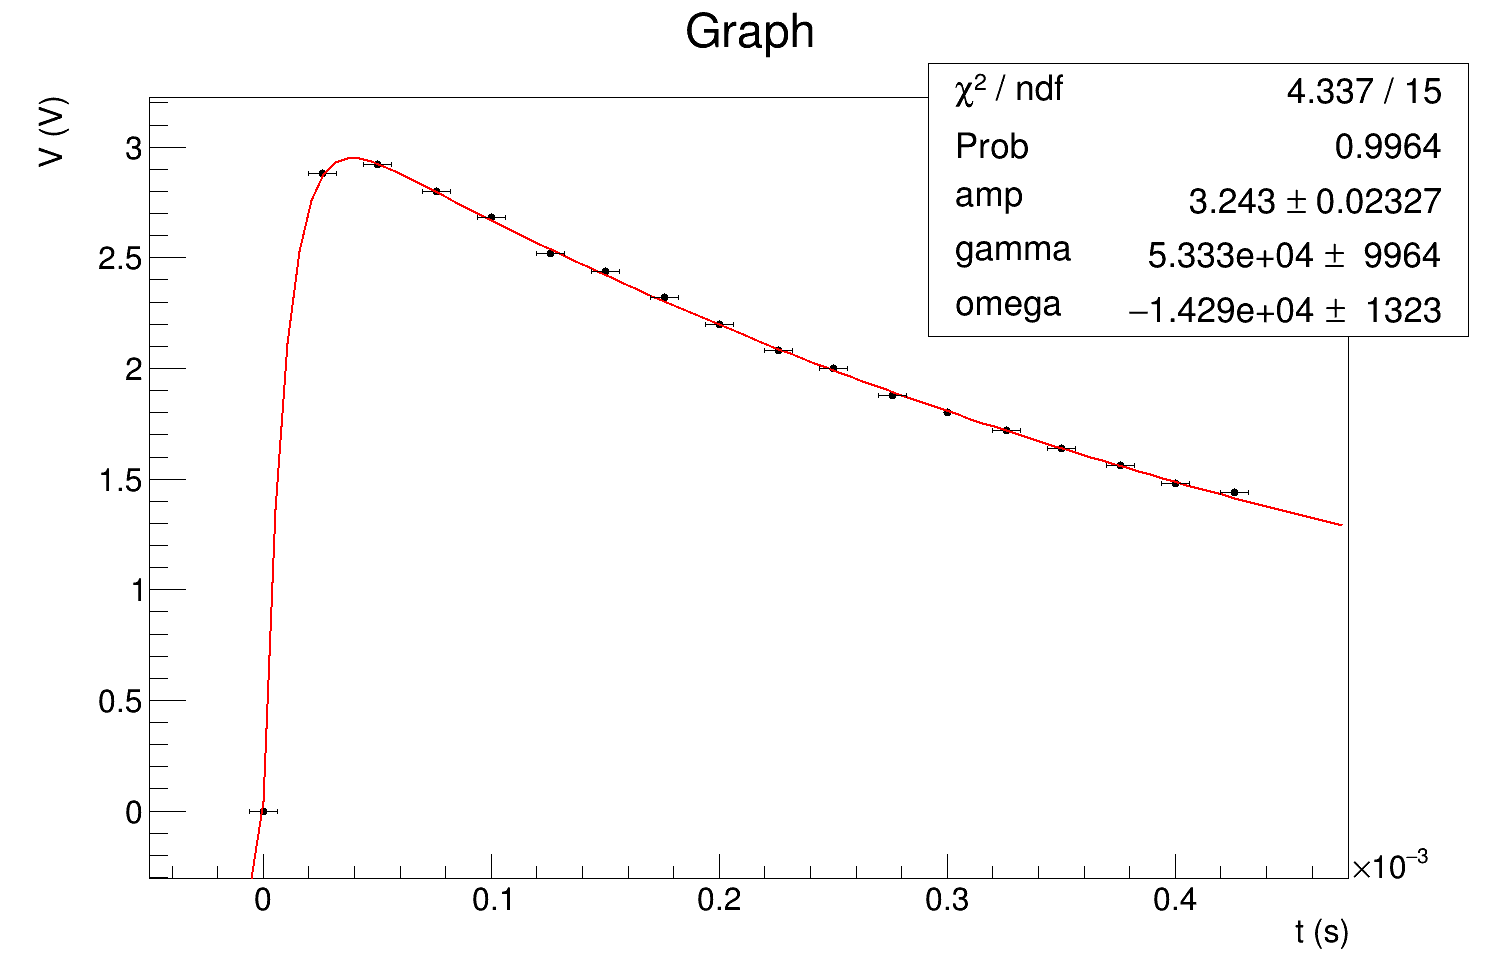
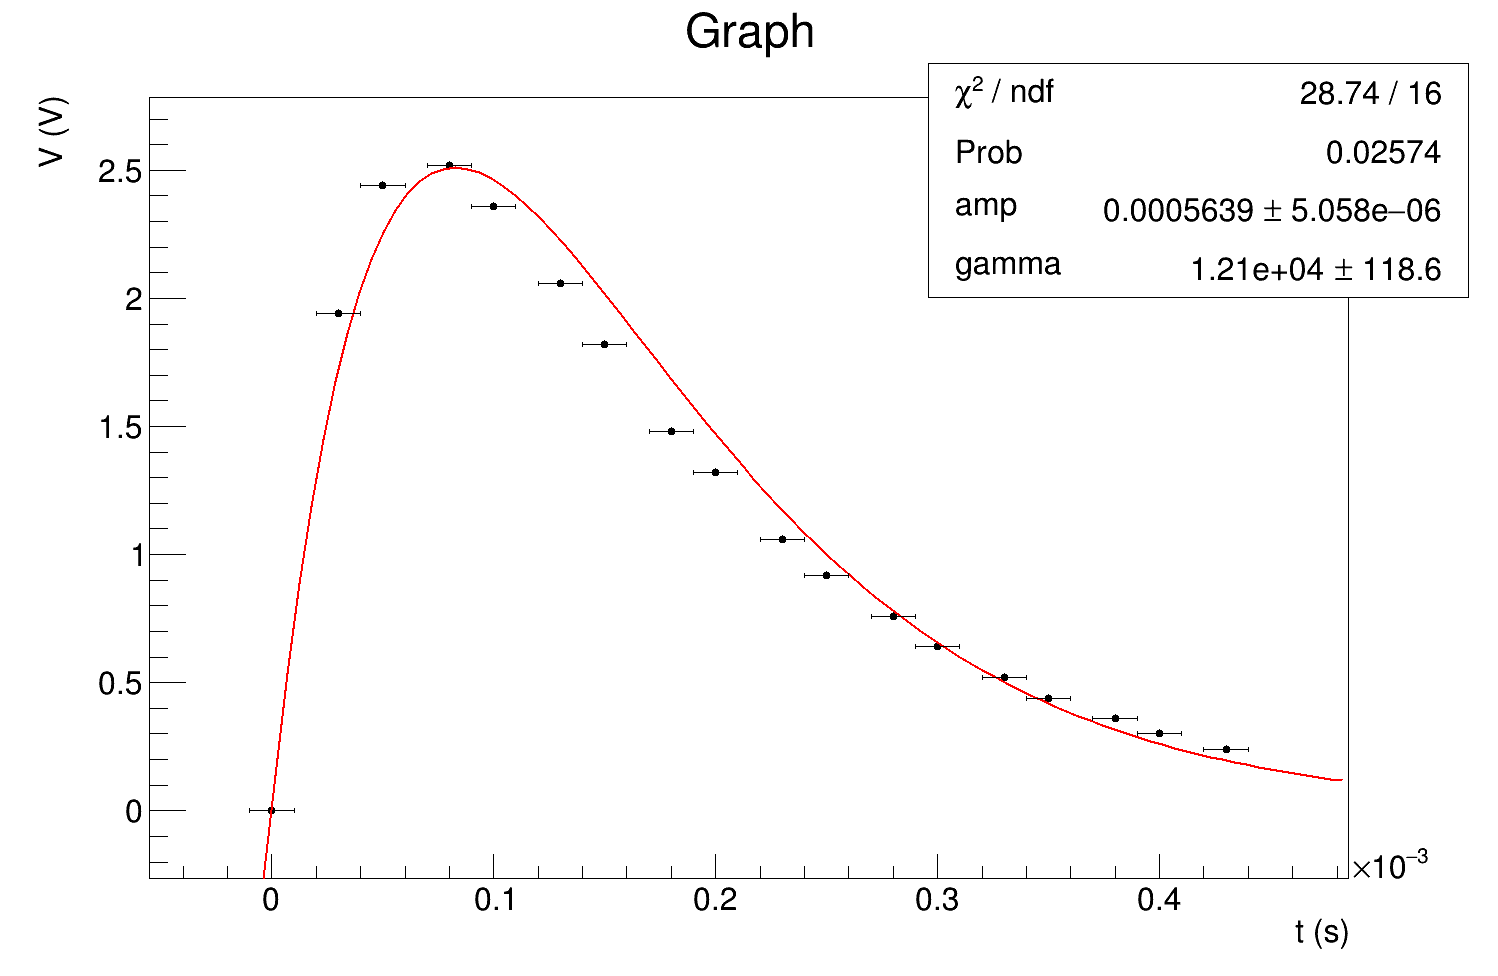
commenti
Eliminati commenti inutili
Corretti i nomi degli assi

diff --git a/4 - C4/sottosmorzamento.cpp b/4 - C4/sottosmorzamento.cpp
@@ -16,7 +16,6 @@
 
 using namespace std;
 
-//bisogna definre la funzione Req
 
 double funzione (double * x,double * par){
     double h = par[0]*exp(-par[1]*x[0])*(par[1]*cos(par[2]*x[0])+par[2]*sin(par[2]*x[0]));
@@ -27,8 +26,8 @@ int main(int argc, char** argv){
 
 
     TGraphErrors* myGraph = new TGraphErrors(argv[1]);
-    myGraph->GetXaxis()->SetTitle("V (V)");
-    myGraph->GetYaxis()->SetTitle("t (s)");
+    myGraph->GetXaxis()->SetTitle("t (s)");
+    myGraph->GetYaxis()->SetTitle("V (V)");
     myGraph->SetMarkerStyle(20);
     myGraph->SetMarkerSize(1);
 

diff --git a/4 - C4/sovrasmorzato.cpp b/4 - C4/sovrasmorzato.cpp
@@ -16,8 +16,6 @@
 
 using namespace std;
 
-//bisogna definre la funzione Req
-
 double sovrasmorzamento (double *x, double *par) {
         double result = par[0]*(exp(-x[0]*(par[1]-sqrt(pow(par[1],2)-pow(par[2],2))))-exp(-x[0]*(par[1]+sqrt(pow(par[1],2)-pow(par[2],2)))));
         return result;
@@ -25,7 +23,7 @@ double sovrasmorzamento (double *x, double *par) {
 
 int main(int argc, char** argv){
 
-//controllo che sia stato inserito il parametro
+
 
     TGraphErrors* myGraph = new TGraphErrors(argv[1]);
     myGraph->GetXaxis()->SetTitle("t (s)");

diff --git a/4 - C4/smorzcritico.cpp b/4 - C4/smorzcritico.cpp
@@ -16,8 +16,6 @@
 
 using namespace std;
 
-//bisogna definre la funzione Req
-
 double smorzcritico (double *x, double *par) {
         double result = par[0]*pow(par[1],2)*x[0]*exp(-(par[1]*x[0]));
         return result;
@@ -34,7 +32,7 @@ int main(int argc, char** argv){
 
     //DEFINISCO LA MIA FUNZIONE
     TF1* myFun = new TF1("myFun", smorzcritico, -0.01, 0.0019, 2);
-    myFun->SetParameter(0, 0.0005); //3e-5
+    myFun->SetParameter(0, 5e-4); //5e-4
     myFun->SetParameter(1, 11333);
 
     myFun->SetParName(0,"amp");
